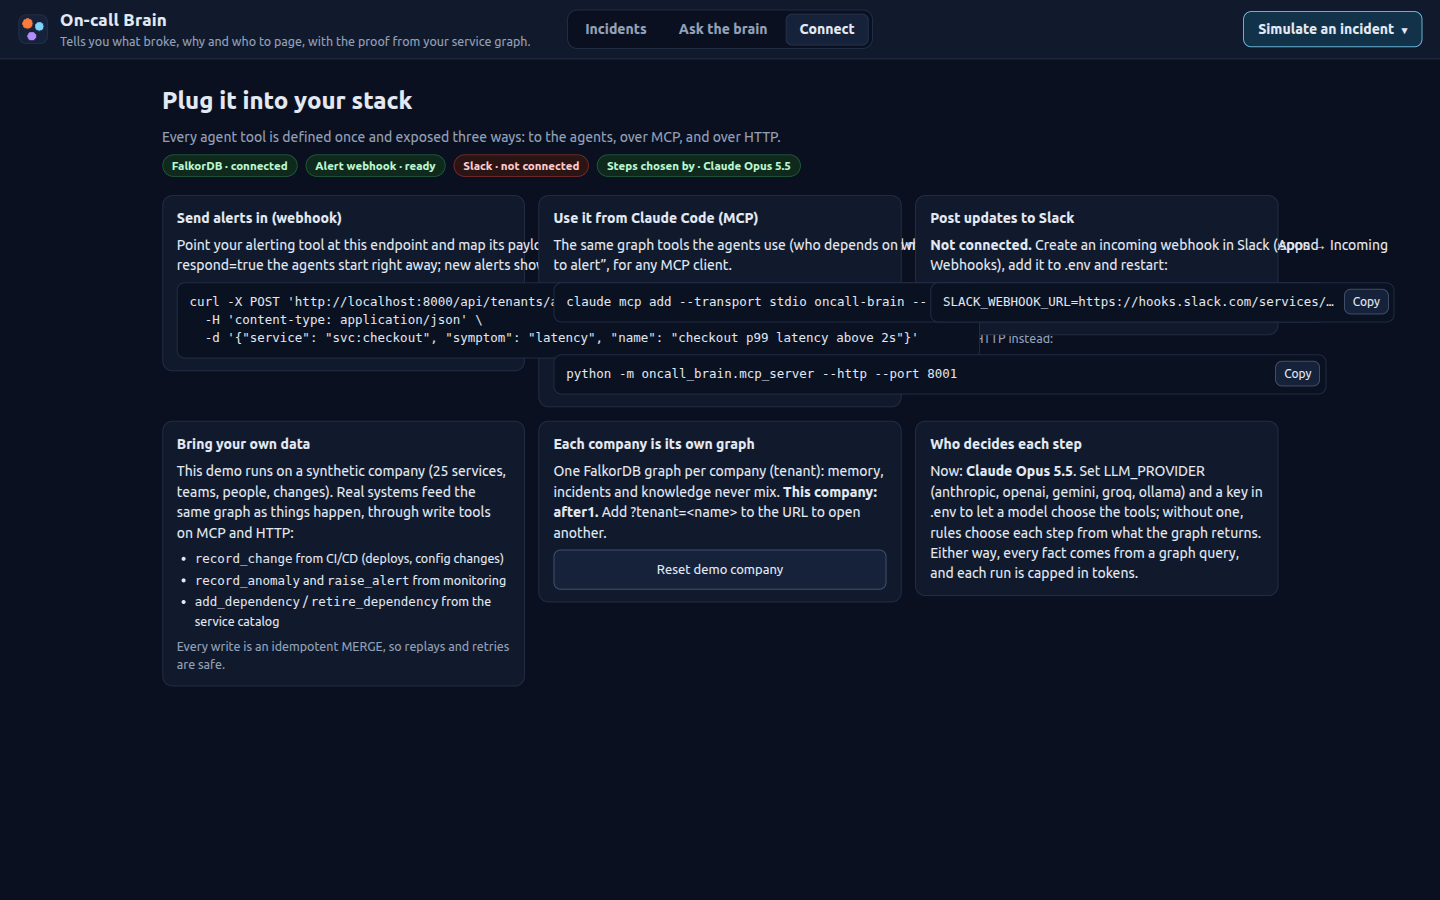
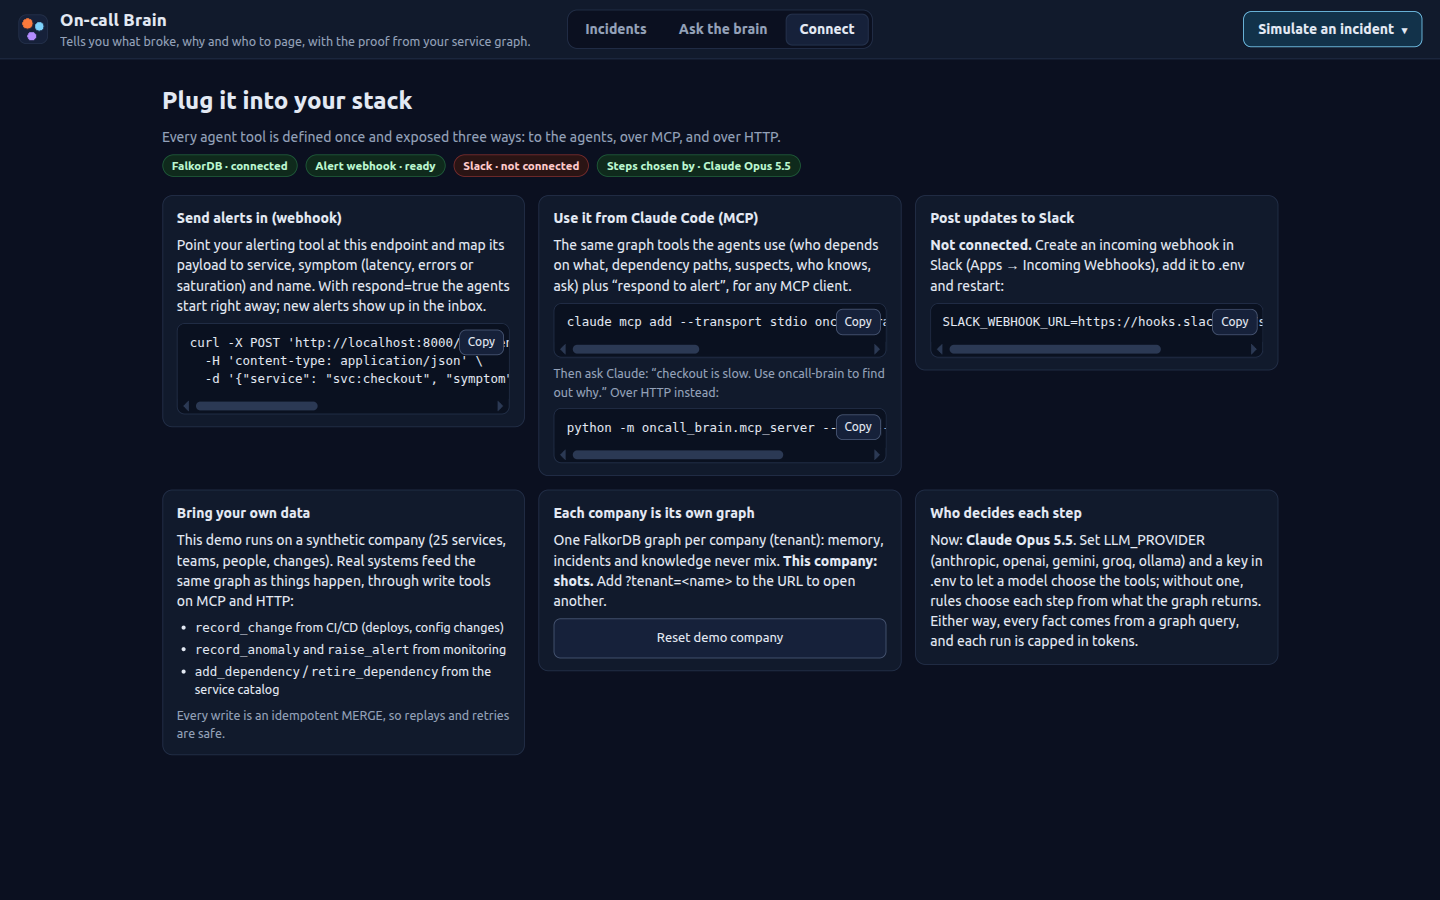
ui: round-2 fixes (Connect cards no longer overlap, arrows and 'suspects' in copy, leading suspect while live, storm 'also possible' in plain words, stored storms marked on the graph, older steps say the reason was not recorded, company label, Ask scrolls to the answer, token count moves to Show me 

Changed region(s): [[0.125, 0.2489, 0.9688, 0.84], [0.875, 0.4044, 0.9375, 0.4356]]

diff --git a/web/app.js b/web/app.js
@@ -37,8 +37,10 @@ const enc = encodeURIComponent;
 const plural = (n, word) => `${n} ${n === 1 ? word : word === 'query' ? 'queries' : `${word}s`}`;
 const ist = (at) => new Date(at * 1000).toLocaleString('en-GB', {
   timeZone: 'Asia/Kolkata', day: '2-digit', month: 'short', hour: '2-digit', minute: '2-digit' }).replace(',', '');
-// Human text never shows graph id prefixes.
-const plain = (text) => String(text ?? '').replace(/\b(svc|chg|inc|hyp|rb|alert|person|team|doc|ticket|msg|ev):/g, '');
+// Human text never shows graph id prefixes, ASCII arrows or the word "hypothesis".
+const plain = (text) => String(text ?? '').replace(/\b(svc|chg|inc|hyp|rb|alert|person|team|doc|ticket|msg|ev):/g, '')
+  .replace(/ -> /g, ' → ').replace(/\bhypotheses\b/g, 'suspects').replace(/\bhypothesis\b/g, 'suspect');
+const companyLabel = () => (state.tenant === (state.health?.default_tenant || 'acme') ? 'Acme (demo company)' : state.tenant);
 const idIn = (text, kind) => (String(text || '').match(new RegExp(`\\b${kind}:[A-Za-z0-9_.:-]+`)) || [null])[0];
 const modelName = (by) => MODELS[by] || by || 'Rules';
 const kindWord = (k) => KIND_WORD[k] || String(k || '').replace(/_/g, ' ');
@@ -215,7 +217,7 @@ function renderSimulateMenu() {
   set('simulate-menu', h('p', { class: 'menu-head' }, 'Simulate an incident', h('span', { class: 'muted small' }, 'Synthetic company, real agents')),
     items, custom,
     h('div', { class: 'menu-foot' },
-      h('span', {}, `Steps chosen by ${plannerLabel()} · This company: ${state.tenant}`),
+      h('span', {}, `Steps chosen by ${plannerLabel()} · ${companyLabel()}`),
       h('button', { class: 'ghost', disabled: state.running, onclick: () => { closeMenus(); doReset(); } }, 'Reset demo company')));
 }
 
@@ -250,7 +252,7 @@ function renderInbox() {
       h('button', { class: 'link-btn', onclick: () => showView('connect') }, 'connect your alerts'), '.'))]);
   set('panel-foot', OFFLINE ? 'Recorded replay of real runs (steps chosen by Claude Opus 5.5); no database behind this page.'
     : state.health ? [h('span', { class: `dot ${state.health.falkordb ? 'confirmed' : 'error'}` }),
-      ` FalkorDB ${state.health.falkordb ? 'connected' : 'down'} · steps chosen by ${plannerLabel()} · company: ${state.tenant}`] : '');
+      ` FalkorDB ${state.health.falkordb ? 'connected' : 'down'} · steps chosen by ${plannerLabel()} · ${companyLabel()}`] : '');
 }
 
 function renderLanding() {
@@ -361,26 +363,26 @@ function renderAnswer(cur) {
   const memory = f.recalled && f.solvedByMemory
     ? h('div', { class: 'banner memory' },
       h('div', { class: 'banner-text' },
-        h('b', {}, 'Seen this before. '), `“${f.recalled.title}” (${short(f.recalled.incident)}) was fixed with `,
+        h('b', {}, 'Seen this before. '), `“${f.recalled.title}” was fixed with `,
         h('b', {}, `“${f.recalled.runbook_title}”`), ', so the same fix was tried first.'),
       wo ? h('div', { class: 'bignums' },
         h('div', {}, h('span', { class: 'big' }, o.investigator_calls), h('span', { class: 'lbl' }, `steps instead of ${wo.investigator_calls}`)),
         h('div', {}, h('span', { class: 'big' }, o.hypotheses_checked), h('span', { class: 'lbl' }, `suspect${o.hypotheses_checked === 1 ? '' : 's'} tested instead of ${wo.hypotheses_checked}`)))
         : cur.act === 2 && !cur.ablation && !cur.stored ? h('span', { class: 'muted small' }, 'Replaying it without memory for comparison…') : null)
     : f.recalled && (o || cur.steps.some((s) => s.tool === 'propose_hypotheses'))
-      ? h('p', { class: 'memory-line' }, h('b', {}, 'Seen something like this: '), `“${f.recalled.title}” (${short(f.recalled.incident)}). Its fix didn’t apply here, so the search widened.`)
+      ? h('p', { class: 'memory-line' }, h('b', {}, 'Seen something like this: '), `“${f.recalled.title}”. Its fix didn’t apply here, so the search widened.`)
       : null;
 
   // Verdict block.
   const kindOfChange = (k) => (k === 'deploy' ? 'Deploy' : k ? 'Config change' : 'Change');
-  const label = resolved ? 'Cause confirmed' : rc ? 'Likely cause' : live ? 'Likely cause' : 'No single cause yet';
+  const label = resolved ? 'Cause confirmed' : live ? 'Leading suspect' : rc ? 'Likely cause' : 'No single cause yet';
   const chipText = resolved ? 'Confirmed by you'
     : conf && rc ? `${conf.label}${conf.level === 'high' && f.checks.length > 1 ? ` · ${f.refuted.length} of ${f.checks.length} suspects ruled out` : conf.level === 'confirmed' ? '' : ` · ${conf.why}`}`
     : null;
   const verdict = h('div', { class: `verdict ${resolved ? 'confirmed' : ''}` },
     h('p', { class: 'k' }, label),
     rc ? [h('h3', { class: 'cause-line' }, h('span', { class: 'cause-svc' }, short(rc.service)),
-      rc.summary?.toLowerCase().startsWith(short(rc.service).toLowerCase()) ? rc.summary.slice(short(rc.service).length) : ` · ${rc.summary}`),
+      plain(rc.summary?.toLowerCase().startsWith(short(rc.service).toLowerCase()) ? rc.summary.slice(short(rc.service).length) : ` · ${rc.summary}`)),
       h('p', { class: 'byline' }, `${kindOfChange(rc.kind)}${rc.author ? ` by ${rc.author}` : ''}`,
         rc.at ? ` · ${ist(rc.at)} · ${minutesBetween(rc.at, alertAt)} min before the alert` : ''),
       chipText ? h('span', { class: `conf ${resolved ? 'confirmed' : conf?.level || ''}` }, chipText) : null]
@@ -397,7 +399,6 @@ function renderAnswer(cur) {
   const actions = o && cur.incident && !resolved ? h('div', { class: 'actions' },
     rc ? h('button', { class: 'confirm', disabled: state.running && !cur.done, onclick: () => resolve(cur, rc.change) }, '✓ Confirm cause') : null,
     alts.length ? h('button', { class: 'ghost tall', onclick: () => { cur.showAlt = !cur.showAlt; renderAnswer(cur); } }, rc ? 'Wrong cause' : 'Pick the cause') : null,
-    h('button', { class: 'link-btn', onclick: () => showTab('why') }, 'Show me why →'),
     cur.showAlt ? h('div', { class: 'alts' },
       h('p', { class: 'muted small' }, 'Pick the change that really caused it. Your call is written to the graph and becomes memory.'),
       h('ul', {}, alts.map((r) => h('li', {}, h('span', {}, h('b', {}, short(r.change)), ` on ${short(r.service)}: ${r.summary || ''} `,
@@ -411,7 +412,7 @@ function renderAnswer(cur) {
 
   // Three columns.
   const col = (title, ...kids) => h('div', { class: 'col' }, h('h4', {}, title), ...kids);
-  const broke = col('What broke', h('p', {}, cur.alerts.length > 1 ? cur.alerts.map((a) => a.name).join(' · ') : cur.alert.name),
+  const broke = col('What broke', cur.alerts.length > 1 ? h('ul', { class: 'plain-list' }, cur.alerts.map((a) => h('li', {}, a.name))) : h('p', {}, cur.alert.name),
     f.broke.length ? h('div', { class: 'chips' }, f.broke.map((s) => chip(s, s === short(cur.home) ? 'alerting' : ''))) : live ? skel('80%') : h('p', { class: 'muted' }, 'Impact not mapped.'),
     f.atRisk.length ? h('p', { class: 'muted small' }, `Also at risk: ${f.atRisk.join(', ')}`) : null);
   const paged = col('Who’s paged', f.paged.length ? h('ul', { class: 'people' }, f.paged.map((p) => h('li', {},
@@ -433,7 +434,7 @@ function renderAnswer(cur) {
     h('ul', {}, ruledRows.map((r) => h('li', {}, h('b', {}, short(r.change)), ` on ${short(r.service)}`, h('span', { class: 'pill out' }, r.tag || 'ruled out'),
       h('span', { class: 'muted small' }, ` ${plain(r.reason)}`))),
     outranked.map((r) => h('li', { class: 'also' }, h('b', {}, 'Also possible: '), `${short(r.change)} on ${short(r.service)}`,
-      h('span', { class: 'muted small' }, ` · ${plain(r.reason).replace(/^outranked:\s*/, '')}`))),
+      h('span', { class: 'muted small' }, ` · ${alsoWhy(r, rc)}`))),
     (o?.co_causes || []).map((c) => h('li', { class: 'also' }, h('b', {}, 'Also contributing: '), `${short(c.change)} on ${short(c.service)}`,
       h('span', { class: 'muted small' }, ` · ${plain(c.reason || '')}`))))) : null;
 
@@ -469,13 +470,22 @@ function renderAnswer(cur) {
     h('p', {}, h('b', {}, `${o.storm.alerts.length + 1} alerts → 1 incident`)),
     h('p', { class: 'small' }, 'Nearest shared upstream: ', h('b', {}, o.storm.shared.slice(0, 2).map((s) => short(s.service)).join(', ') || 'none')),
     h('p', { class: 'muted small' }, 'Without correlating them first, the same agents blame a change that explains only one alert.')));
-  if (cur.res?.llm_tokens || cur.res?.planner) rail.push(h('p', { class: 'muted small foot' },
-    `Steps chosen by ${modelDecides() ? modelName((cur.res.planner || '').split(' ')[0]) : 'the rule planner'}`
-    + (cur.res.llm_tokens ? ` · ${(cur.res.llm_tokens / 1000).toFixed(0)}k tokens` : '')));
+  if (cur.res?.planner) rail.push(h('p', { class: 'muted small foot' },
+    `Steps chosen by ${modelDecides() ? modelName((cur.res.planner || '').split(' ')[0]) : 'the rule planner'}`));
 
   set('answer', h('div', { class: 'answer-grid' },
     h('div', { class: 'answer-main' }, memory, verdict, actions, h('div', { class: 'cols' }, broke, paged, fix), ruled, path, preview),
     h('div', { class: 'answer-rail' }, rail)));
+}
+
+// "outranked: chg:x explains every alerting service this change does (1) and 2 more" -> plain words.
+function alsoWhy(r, rc) {
+  const m = String(r.reason || '').match(/explains every alerting service this change does \((\d+)\) and (\d+) more/);
+  if (m) {
+    const n = Number(m[1]), all = n + Number(m[2]);
+    return `it only explains ${n} of ${all} alerting services; the ${short(rc?.service || '')} change explains all ${all}`;
+  }
+  return plain(r.reason).replace(/^outranked:\s*/, '');
 }
 
 function suspectsCard(f, live) {
@@ -558,14 +568,18 @@ function cypherList(queries) {
 
 function stepRow(step, i) {
   const d = step.data, verdict = step.tool === 'check_hypothesis' && d ? d.verdict : null;
+  // Runs recorded before reasons and deciders were stored say "LLM chose X" with no decider: show that honestly.
+  const old = /^LLM chose /.test(step.reason || '');
+  const by = old && step.by === 'rules' ? 'model' : step.by;
+  const why = old ? 'chosen by the model (older run; its reason was not recorded)' : plain(step.reason);
   return h('li', { class: `step ${step.role}${verdict ? ` v-${verdict}` : ''}`, 'data-i': i, tabindex: 0, role: 'button' },
     h('div', { class: 'step-head' }, h('span', { class: 'seq' }, step.seq), h('b', { class: 'step-title' }, stepTitle(step)),
-      h('code', { class: 'tool' }, step.tool), h('span', { class: `by ${step.by === 'rules' ? 'rules' : 'model'}` }, modelName(step.by))),
+      h('code', { class: 'tool' }, step.tool), h('span', { class: `by ${by === 'rules' ? 'rules' : 'model'}` }, by === 'model' ? 'Model' : modelName(by))),
     verdict ? h('p', { class: 'summary' }, h('span', { class: `verdict ${verdict}` }, verdict === 'supports' ? '✓ supports' : '✗ ruled out'), ' ',
       h('b', {}, short(d.change)), ` on ${short(d.service)}: `, h('span', { class: 'reason' }, plain(d.reason)),
       verdict === 'supports' && d.live_path?.length > 1 ? pathChips([...d.live_path].reverse()) : null)
       : h('p', { class: 'summary' }, plain(step.summary)),
-    h('p', { class: 'why' }, h('span', { class: 'why-label' }, 'why '), plain(step.reason)),
+    h('p', { class: 'why' }, h('span', { class: 'why-label' }, 'why '), why),
     cypherList(step.queries));
 }
 
@@ -584,7 +598,8 @@ function renderWhy(cur) {
       h('ol', { class: 'steps' }, mine.filter(([s]) => s.tool !== 'handoff').map(([s, i]) => stepRow(s, i))));
   });
   set('why-side', h('div', { class: 'why-head' }, h('h3', {}, `Agent steps · ${steps.length}`),
-    h('span', { class: 'muted small' }, ms ? `${(ms / 1000).toFixed(1)} s on the graph` : '')),
+    h('span', { class: 'muted small' }, [ms ? `${(ms / 1000).toFixed(1)} s on the graph` : '',
+      cur.res?.llm_tokens ? `${(cur.res.llm_tokens / 1000).toFixed(0)}k model tokens` : ''].filter(Boolean).join(' · '))),
     h('div', { class: 'why-groups' }, groups),
     h('p', { class: 'muted small foot' }, steps.length ? `Steps chosen by ${byModel ? `${modelName(steps.find((s) => s.by !== 'rules')?.by)} (${byModel})` : ''}`
       + `${byModel && steps.length - byModel ? ' and ' : ''}${steps.length - byModel ? `the rule planner (${steps.length - byModel})` : ''}` : ''));
@@ -660,10 +675,18 @@ function replayGraph(cur) {
   cur.cause = G.empty();
   G.mark(cur.home, 'alerting');
   for (const s of cur.steps || []) applyStep(cur, s, false);
-  if (cur.stored) { // no live trace: light the cause path the graph remembers
-    const rc = outcomeOf(cur)?.root_cause, p = rc?.live_path || [];
+  if (cur.stored) { // no live trace: light the cause path and the storm the graph remembers
+    const o = outcomeOf(cur), rc = o?.root_cause, p = rc?.live_path || [];
     const eles = G.elementsFor({ nodes: p, edges: p.slice(1).map((n, i) => [p[i], n, 'DEPENDS_ON']) }, cur);
     if (eles) { cur.touched = cur.touched.union(eles); cur.cause = eles; }
+    if (o?.storm) {
+      const alerting = [...new Set([cur.home, ...o.storm.alerts.map((a) => a.service)])];
+      for (const s of alerting) G.mark(s, 'alerting storm');
+      for (const s of o.storm.shared) G.mark(s.service, 'shared');
+      if (o.storm.shared[0]) G.mark(o.storm.shared[0].service, 'choke');
+      const marked = G.select([...alerting, ...o.storm.shared.map((s) => s.service)].map((id) => `[id = "${id}"]`).join(', '));
+      if (marked) cur.touched = cur.touched.union(marked);
+    }
   }
   if (outcomeOf(cur)) finalPaint(cur);
   else G.paint(cur, null, cur.touched.nonempty() ? cur.touched : G.select(`[id = "${cur.home}"]`));
@@ -928,7 +951,9 @@ function renderChat() {
     return;
   }
   set('chat-log', state.chat.map((m) => (m.who === 'you' ? h('div', { class: 'msg you' }, m.text) : brainMessage(m))));
-  log.scrollTop = log.scrollHeight;
+  // Scroll so the latest answer starts in view (its first line is the answer), not so its tail is in view.
+  const last = log.lastElementChild, question = last?.previousElementSibling;
+  log.scrollTop = Math.max(0, (question || last)?.offsetTop - log.offsetTop - 8 || 0);
 }
 
 async function askQ(q) {
@@ -997,7 +1022,7 @@ function renderConnect() {
           h('li', {}, h('code', {}, 'add_dependency'), ' / ', h('code', {}, 'retire_dependency'), ' from the service catalog')),
         h('p', { class: 'muted small' }, 'Every write is an idempotent MERGE, so replays and retries are safe.')),
       card('Each company is its own graph',
-        h('p', {}, 'One FalkorDB graph per company (tenant): memory, incidents and knowledge never mix. ', h('b', {}, `This company: ${state.tenant}.`),
+        h('p', {}, 'One FalkorDB graph per company (tenant): memory, incidents and knowledge never mix. ', h('b', {}, `This company: ${companyLabel()}.`),
           ' Add ?tenant=<name> to the URL to open another.'),
         h('button', { class: 'ghost tall', disabled: state.running, onclick: () => doReset() }, 'Reset demo company')),
       card('Who decides each step',

diff --git a/web/graph.js b/web/graph.js
@@ -95,7 +95,7 @@ export function build(container, g) {
   // Callers on the left, dependencies on the right. Built-in breadthfirst (rotated) if dagre did not load.
   const layout = typeof cytoscapeDagre !== 'undefined' ? LAYOUT
     : { name: 'breadthfirst', directed: true, padding: 30, transform: (_, p) => ({ x: p.y * 1.6, y: p.x / 1.6 }) };
-  cy = cytoscape({ container, elements, style: STYLE, layout, minZoom: 0.3, maxZoom: 1.3,
+  cy = cytoscape({ container, elements, style: STYLE, layout, minZoom: 0.55, maxZoom: 1.3,  // labels stay >= ~9px
     boxSelectionEnabled: false, autoungrabify: true });
   homePositions = new Map(cy.nodes().map((n) => [n.id(), { ...n.position() }]));
   return { services: g.nodes.length, deps: g.edges.length, retired: g.edges.filter((e) => !e.live).length };
@@ -210,7 +210,10 @@ export function scopeTo(eles) {
   if (typeof cytoscapeDagre !== 'undefined') {
     cy.elements(':visible').layout({ ...LAYOUT, fit: false, animate: false }).run();
   }
-  refit(eles);
+  if (visible()) {
+    cy.resize();
+    cy.fit(cy.elements(':visible'), 36);
+  }
 }
 
 export function scopeAll() {

diff --git a/web/style.css b/web/style.css
@@ -396,7 +396,11 @@ main > #graph-wrap { display: none; } /* only shown once moved into a slot */
 .connect-intro h2 { font-size: 24px; }
 .status-row { display: flex; flex-wrap: wrap; gap: 8px; }
 .connect-grid { display: grid; grid-template-columns: repeat(auto-fill, minmax(320px, 1fr)); gap: 14px; align-items: start; }
+.connect-card { min-width: 0; } /* a grid child's default min-width is its content: a long pre would widen it over its neighbours */
 .connect-card h3 { font-size: 14px; }
+.code-wrap { min-width: 0; max-width: 100%; }
+.plain-list { margin: 0; padding-left: 18px; display: grid; gap: 2px; }
+.confirm { white-space: nowrap; }
 .connect-card ul { margin: 0; padding-left: 18px; display: grid; gap: 3px; }
 .code-wrap { position: relative; }
 .code-wrap .copy { position: absolute; top: 6px; right: 6px; }
